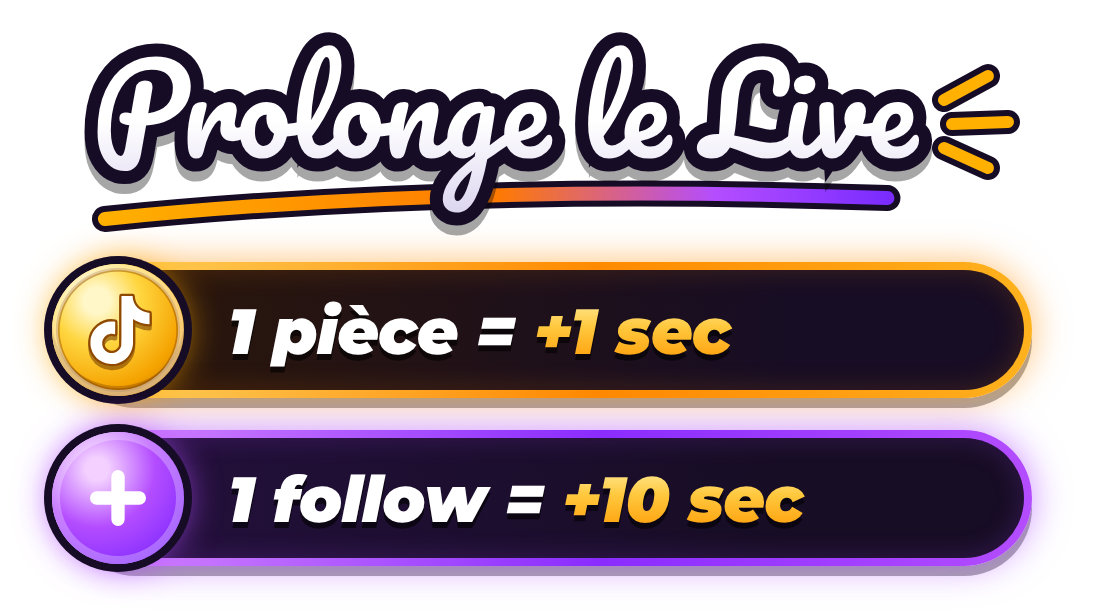
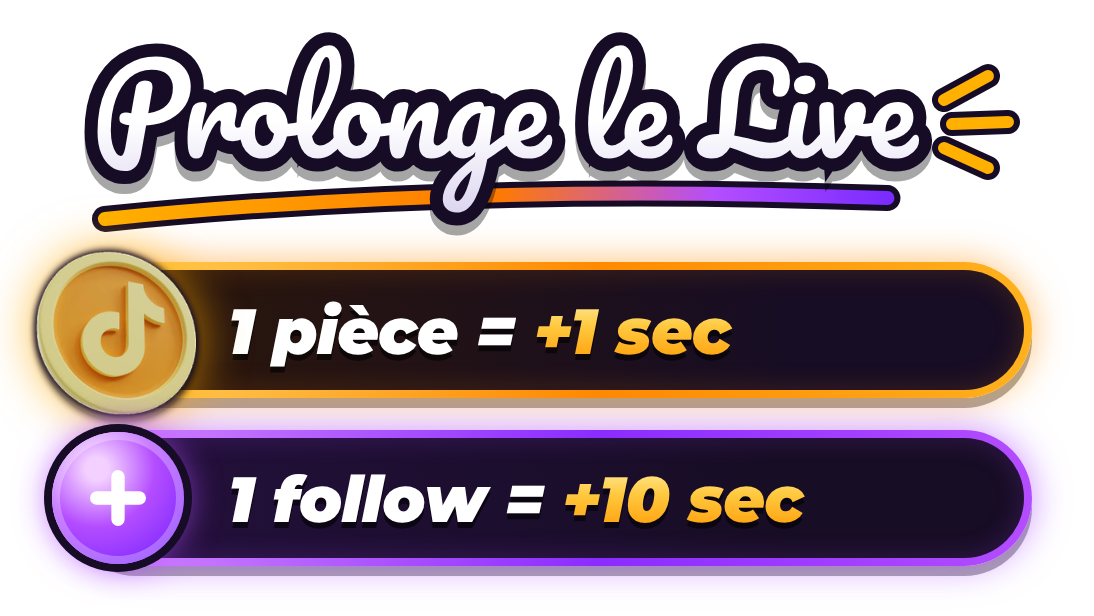
Overlay : remplace l'icône par la pièce TikTok 3D fournie
Claude-Session: https://claude.ai/code/session_011ZnE9jcAQ5EDZifJKNuD2T

Changed region(s): [[0.0, 0.3701, 0.2176, 0.7094]]

diff --git a/prolonge-le-live.html b/prolonge-le-live.html
@@ -76,14 +76,11 @@
     border-radius: 50%; display: grid; place-items: center;
   }
   /* Pièce TikTok */
-  .icon.coin {
-    background:
-      radial-gradient(circle at 50% 50%, transparent 0 62%, rgba(140,70,0,.45) 63% 66%, transparent 67%),
-      radial-gradient(circle at 34% 28%, #fff7c8 0 10%, #ffd640 34%, #f5a300 68%, #b06400 100%);
-    box-shadow: 0 0 0 4px var(--ink), inset 0 0 0 3px rgba(255,255,255,.45), inset 0 -5px 0 rgba(120,60,0,.35), 0 0 18px rgba(255,170,0,.85);
+  .icon.coin { width: 80px; height: 80px; left: -20px; }
+  .icon.coin img {
+    width: 100%; height: 100%; object-fit: contain;
+    filter: drop-shadow(0 0 1.5px var(--ink)) drop-shadow(0 0 1.5px var(--ink)) drop-shadow(0 4px 0 rgba(0,0,0,.35)) drop-shadow(0 0 12px rgba(255,170,0,.75));
   }
-  .icon.coin svg { width: 34px; height: 34px; margin-left: 2px; overflow: visible; filter: drop-shadow(0 2px 0 rgba(110,55,0,.55)); }
-  .icon.coin svg path { fill: #fff; stroke: #8f4a00; stroke-width: 1.6; stroke-linejoin: round; paint-order: stroke fill; }
   .icon.follow {
     background: radial-gradient(circle at 34% 28%, #f3d0ff 0 9%, #b44dff 45%, #6d1dff 100%);
     box-shadow: 0 0 0 4px var(--ink), inset 0 0 0 4px rgba(255,255,255,.28), 0 0 18px rgba(180,77,255,.95);
@@ -131,7 +128,7 @@
   <!-- 1 pièce = +1 sec -->
   <div class="pill coin">
     <div class="icon coin">
-      <svg viewBox="0 0 24 24" aria-hidden="true"><path d="M12.525.02c1.31-.02 2.61-.01 3.91-.02.08 1.53.63 3.09 1.75 4.17 1.12 1.11 2.7 1.62 4.24 1.79v4.03c-1.44-.05-2.89-.35-4.2-.97-.57-.26-1.1-.59-1.62-.93-.01 2.92.01 5.84-.02 8.75-.08 1.4-.54 2.79-1.35 3.94-1.31 1.92-3.58 3.17-5.91 3.21-1.43.08-2.86-.31-4.08-1.03-2.02-1.19-3.44-3.37-3.65-5.71-.02-.5-.03-1-.01-1.49.18-1.9 1.12-3.72 2.58-4.96 1.66-1.44 3.98-2.13 6.15-1.72.02 1.48-.04 2.96-.04 4.44-.99-.32-2.15-.23-3.02.37-.63.41-1.11 1.04-1.36 1.75-.21.51-.15 1.07-.14 1.61.24 1.64 1.82 3.02 3.5 2.87 1.12-.01 2.19-.66 2.77-1.61.19-.33.4-.67.41-1.06.1-1.79.06-3.57.07-5.36.01-4.03-.01-8.05.02-12.07z"/></svg>
+      <img src="piece-tiktok.png" alt="">
     </div>
     <span class="lbl">1 pièce =</span><span class="val">+1 sec</span>
   </div>

diff --git a/README.md b/README.md
@@ -3,7 +3,7 @@
 Bandeau « Prolonge le Live » : **1 pièce = +1 sec**, **1 follow = +10 sec**.
 
 - `prolonge-le-live.png` : image à fond transparent, prête à mettre sur le live.
-- `prolonge-le-live.html` : la source de l'image (pour la modifier).
+- `prolonge-le-live.html` + `piece-tiktok.png` : la source de l'image (pour la modifier).
 
 ## Ajouter sur le live
 - **TikTok LIVE Studio** : Ajouter une source > Image > choisis `prolonge-le-live.png`.
